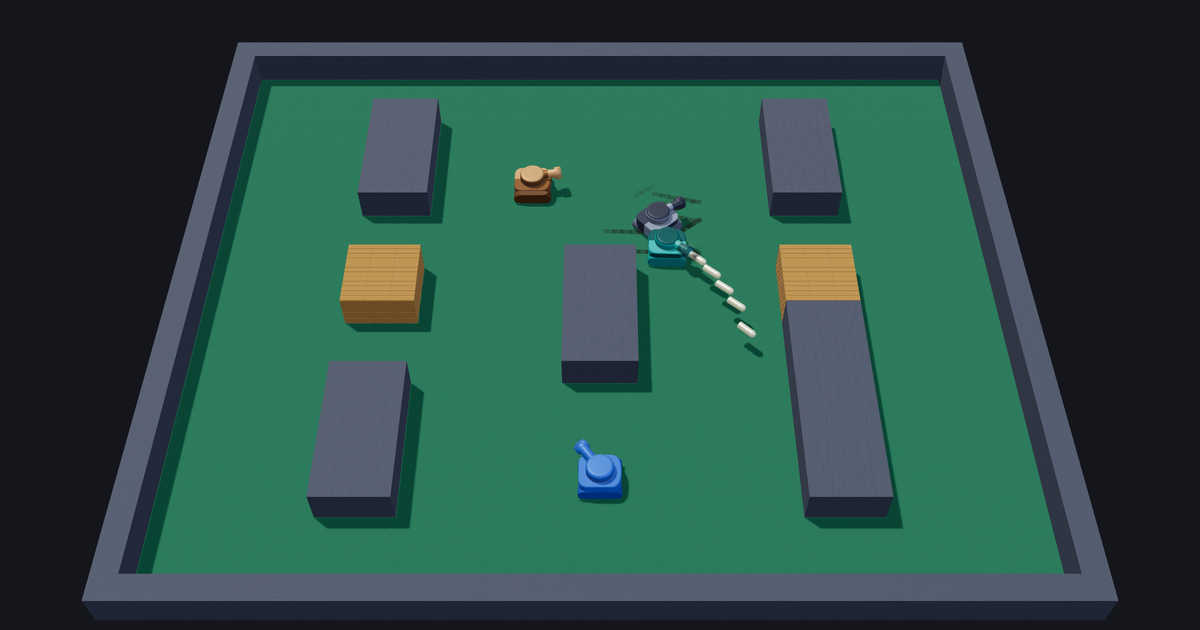
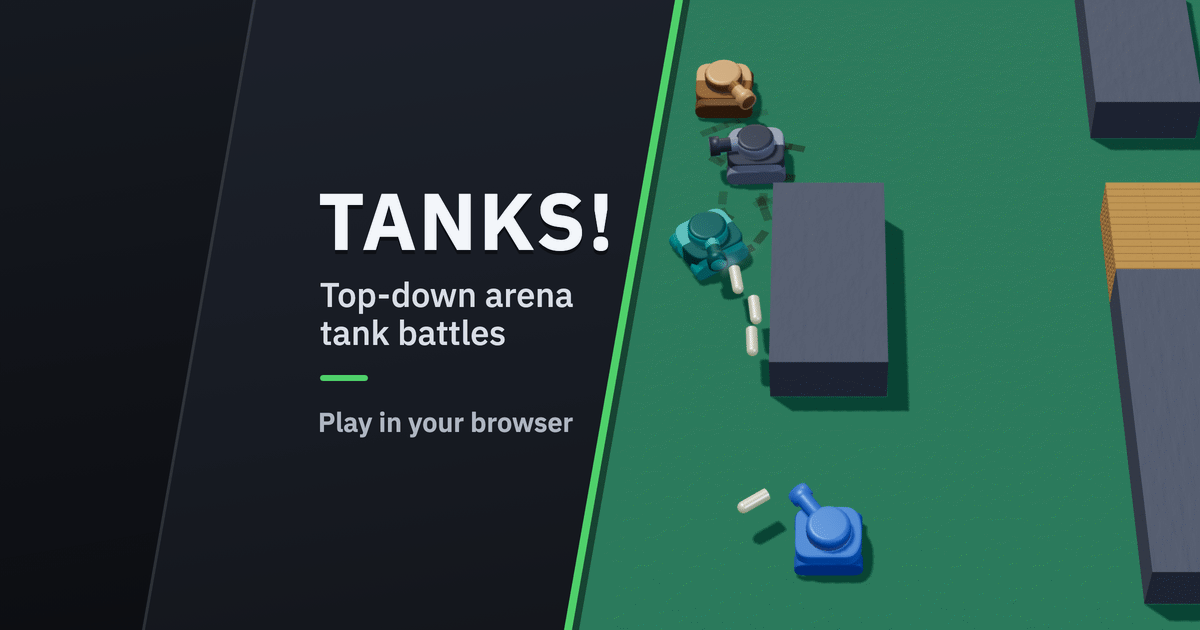
wip: the V1 split card as the share image, alt text and comment

diff --git a/index.html b/index.html
@@ -34,24 +34,27 @@
       content="A top-down arena tank game: ricochet shells, mines, a campaign against a roster of enemy tanks, and local versus."
     />
     <!-- The link-card image is public/share-image.png, which vite copies into dist/ and the
-         same deploy serves (issue #973): a 1200x630 PNG cropped from one frame of
-         `npm run gallery -- --scene game`, the real game shot through its real camera with no
-         developer query. Absolute for the reason canonical and og:url are. Replacing the
-         picture is a swap of that one file; tools/webmanifest.test.ts holds these tags to the
-         file's real size, and tools/portability/check.mjs checks the BUILT output carries it. -->
+         same deploy serves (issue #973): a 1200x630 PNG with a brand panel (the splash title in
+         the bundled IBM Plex Sans) beside one frame of `npm run gallery -- --scene game`, the
+         real game shot through its real camera with no developer query, cropped and scaled
+         only. Its layout keeps the whole title in the centred square that some apps crop to.
+         The one-off script that composed it is quoted in the pull request, as #973's amended
+         rules ask. Absolute for the reason canonical and og:url are. Replacing the picture is a
+         swap of that one file; tools/webmanifest.test.ts holds these tags to the file's real
+         size, and tools/portability/check.mjs checks the BUILT output carries it. -->
     <meta property="og:image" content="https://austinorphan.com/tanks/share-image.png" />
     <meta property="og:image:type" content="image/png" />
     <meta property="og:image:width" content="1200" />
     <meta property="og:image:height" content="630" />
     <meta
       property="og:image:alt"
-      content="A tilted top-down view of a green arena walled in grey: a blue tank near the bottom faces brown, grey and teal tanks near the top, among grey blocks and two wooden crates, as a shell from the teal tank streaks across the floor."
+      content="The title TANKS! in large white capitals on a dark panel, above the lines Top-down arena tank battles and Play in your browser. A slanted green edge divides it from a top-down view of a round in progress on a green floor among grey blocks: a brown, a grey and a teal tank stand in a column beside a large block, and the teal tank fires a line of shells down toward the blue player tank below."
     />
     <meta name="twitter:card" content="summary_large_image" />
     <meta name="twitter:image" content="https://austinorphan.com/tanks/share-image.png" />
     <meta
       name="twitter:image:alt"
-      content="A tilted top-down view of a green arena walled in grey: a blue tank near the bottom faces brown, grey and teal tanks near the top, among grey blocks and two wooden crates, as a shell from the teal tank streaks across the floor."
+      content="The title TANKS! in large white capitals on a dark panel, above the lines Top-down arena tank battles and Play in your browser. A slanted green edge divides it from a top-down view of a round in progress on a green floor among grey blocks: a brown, a grey and a teal tank stand in a column beside a large block, and the teal tank fires a line of shells down toward the blue player tank below."
     />
     <!-- Relative href, deliberately: on a GitHub Pages PROJECT page the browser
          resolves a bare /favicon.ico against the ORIGIN root, not the project
